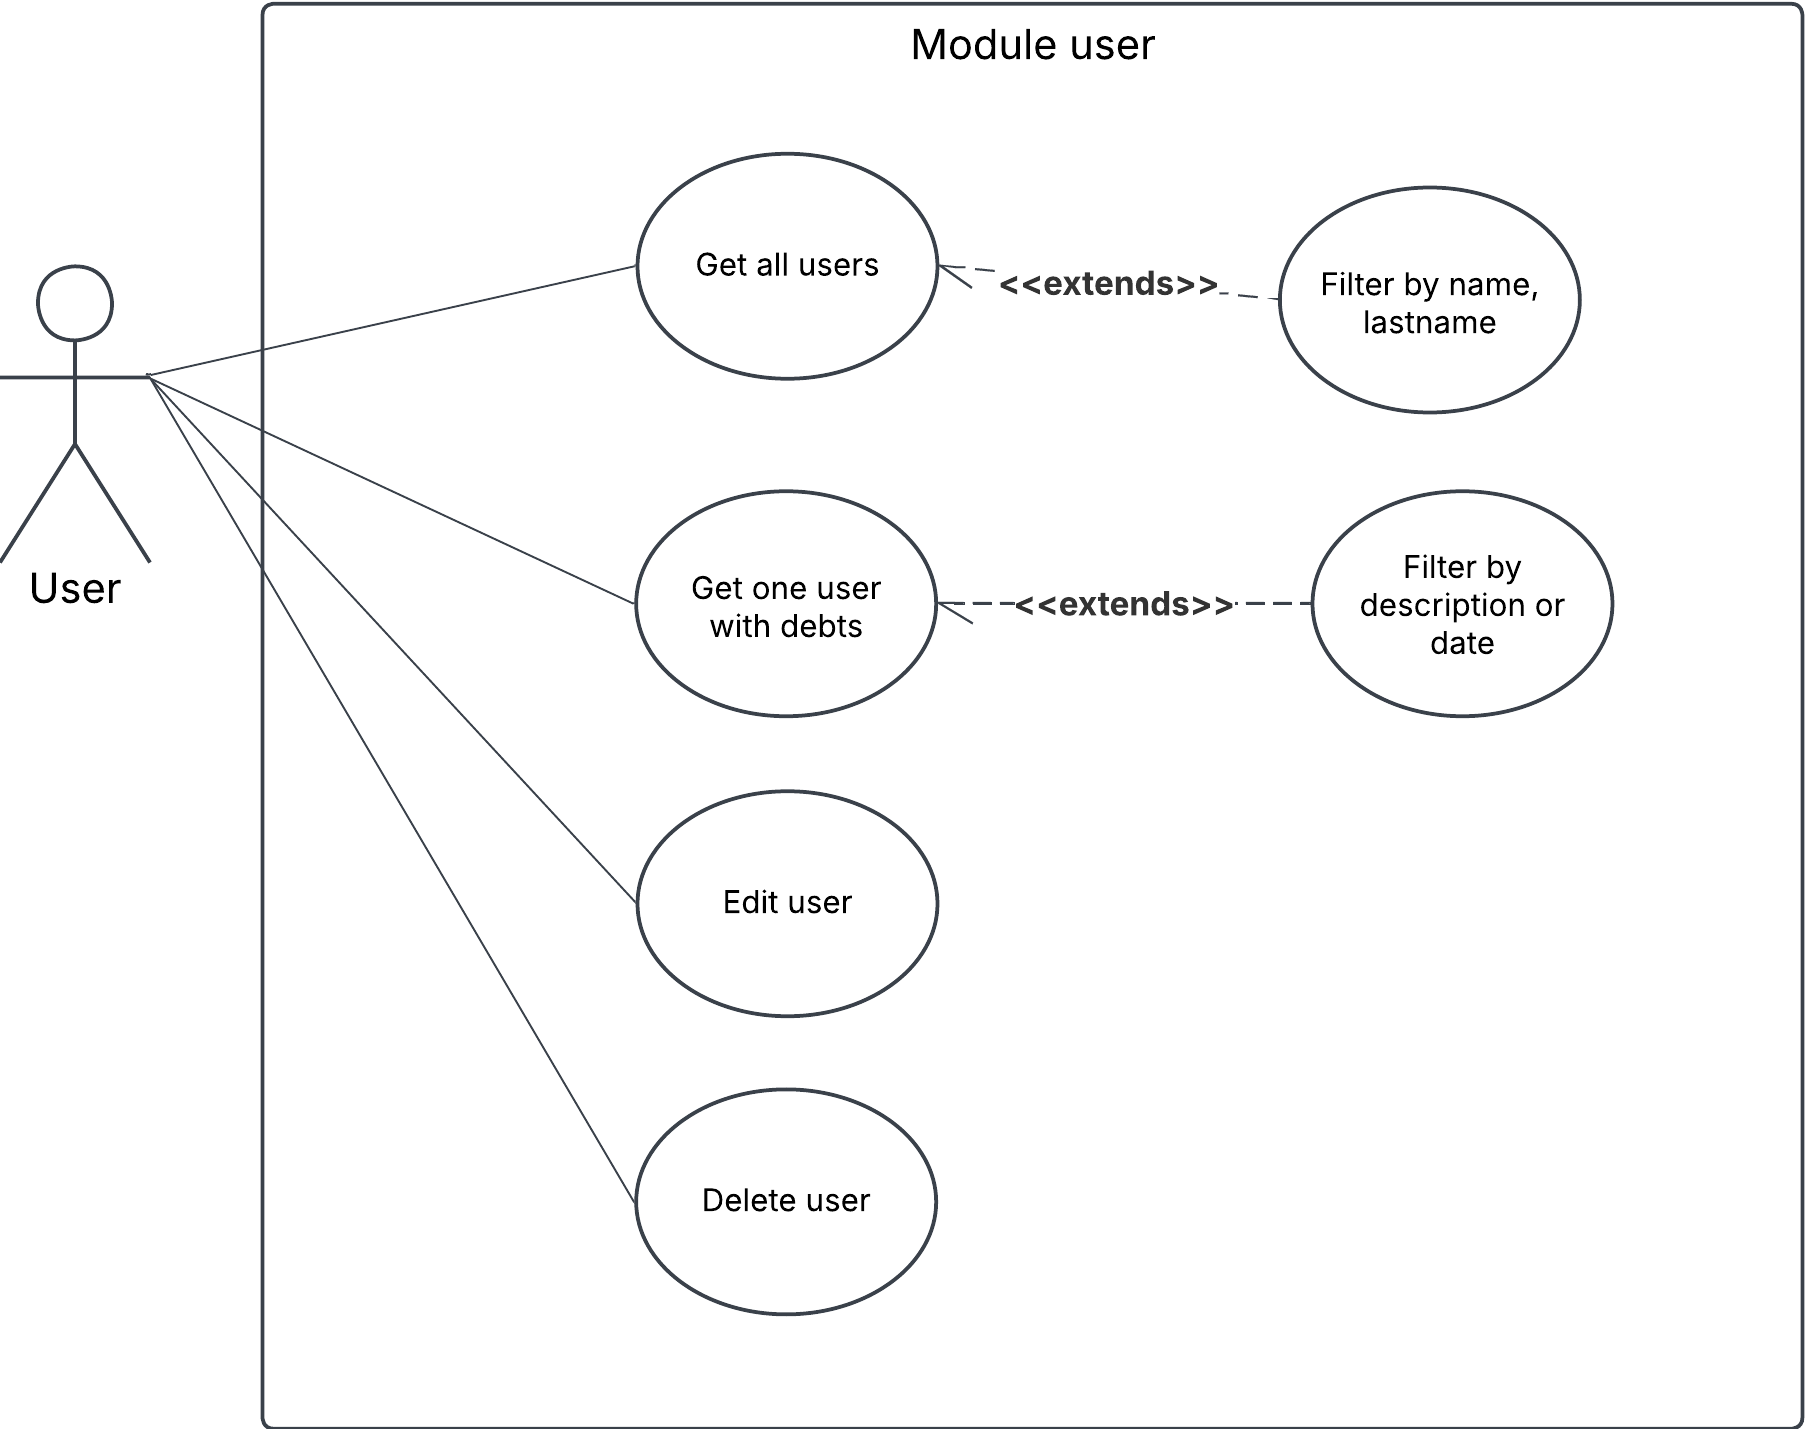
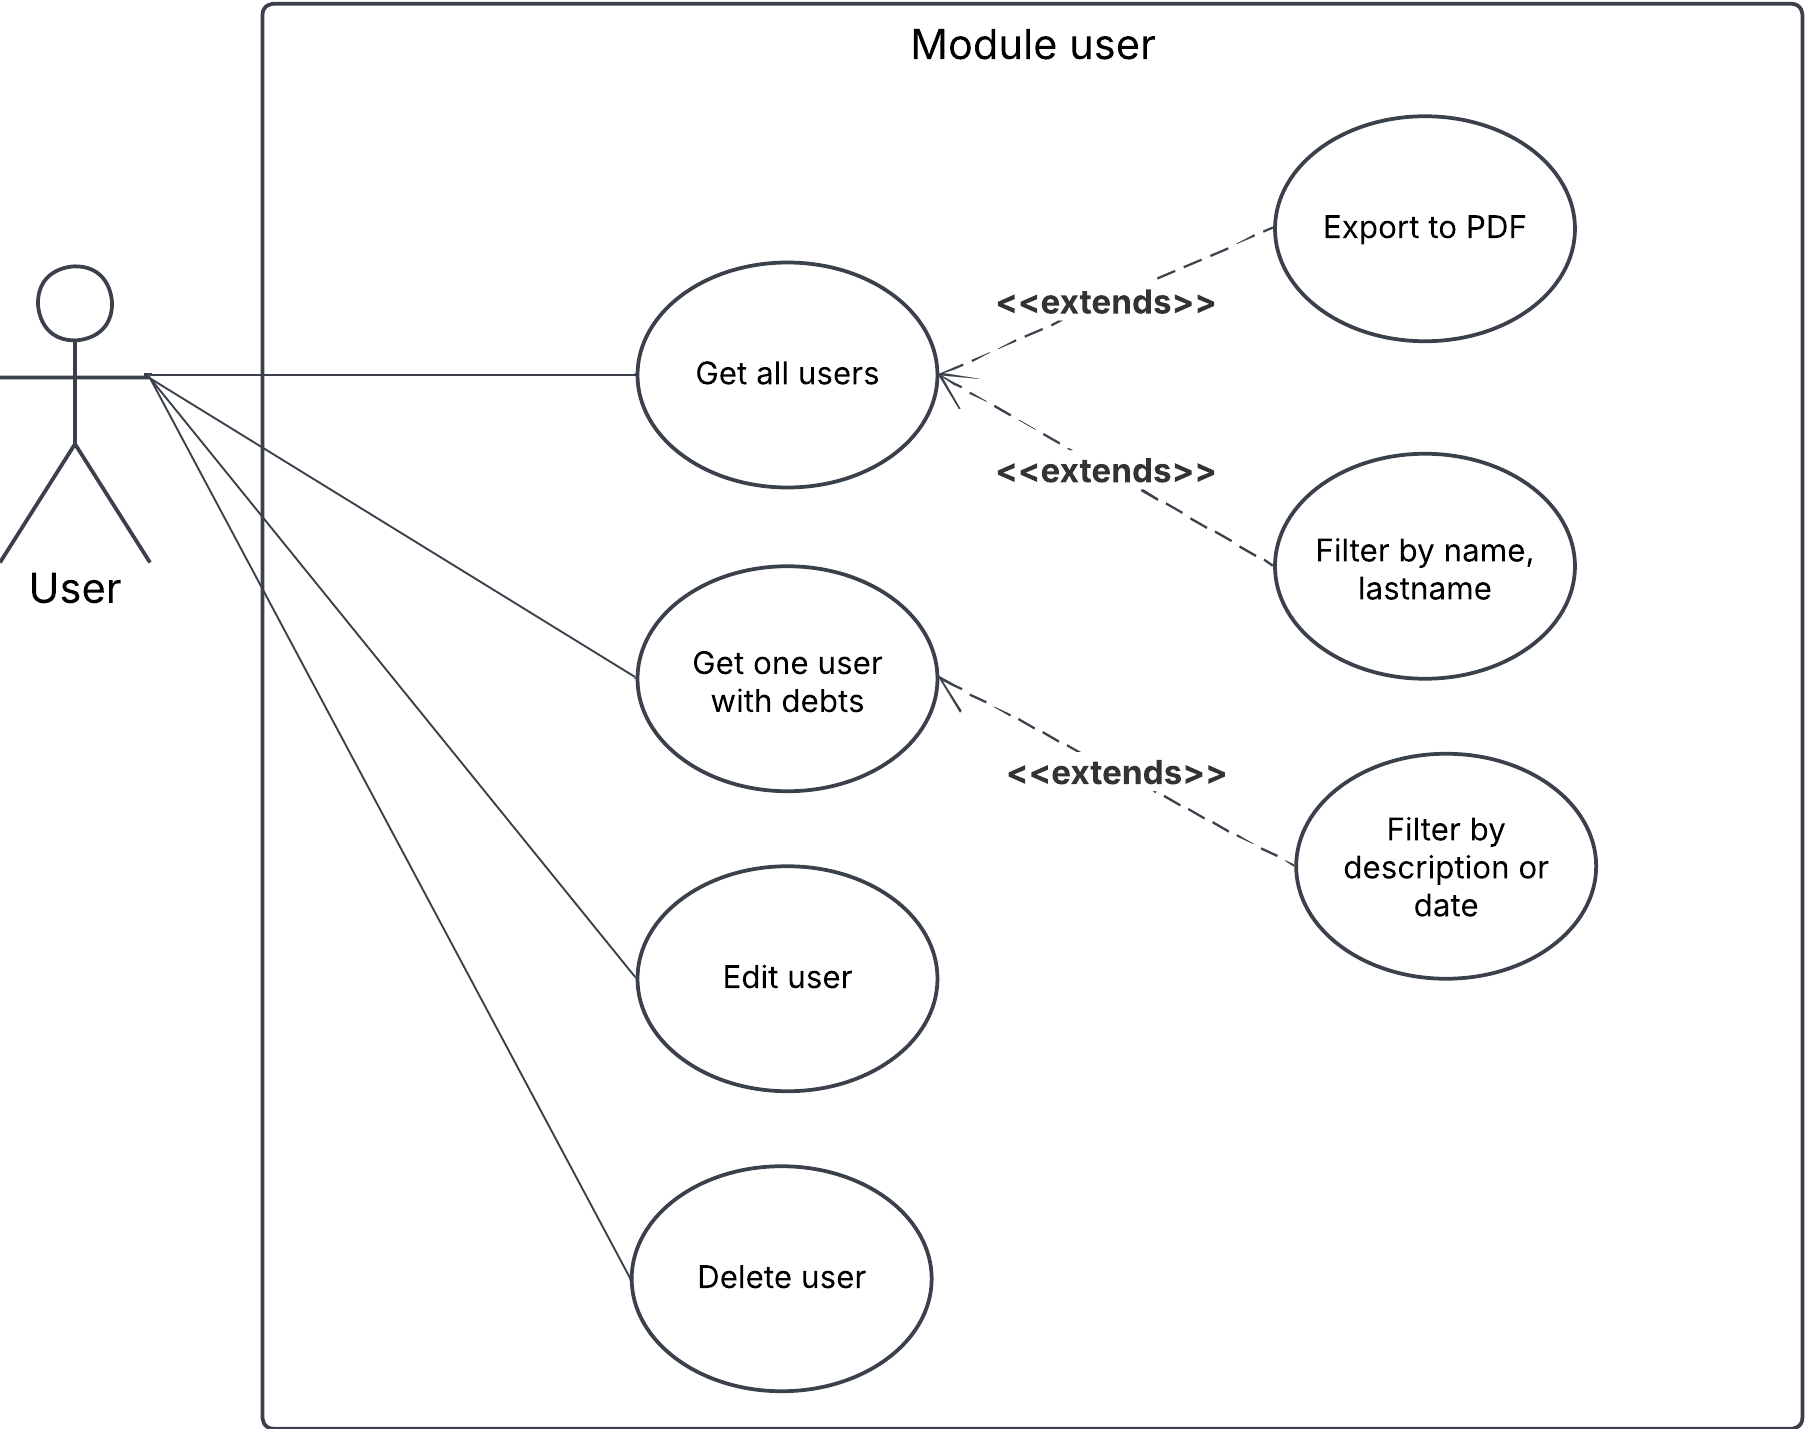
docs: :memo: uses cases and modules updated doc ready

diff --git a/README.md b/README.md
@@ -8,10 +8,12 @@ CrediControl es una aplicación web diseñada para ayudarte a llevar el control 
 
 - Registro y seguimiento de ingresos y egresos con filtros avanzados.
 - Gestión completa de deudas y deudores.
-- Gestión completa de usuarios.
+- Gestión completa de contactos.
 - Configuración de presupuestos.
 - Visualización de transacciones por nombre, tipo, fecha.
 - Seguridad y rendimiento con arquitectura moderna y escalable.
+- Generación de reportes en pdf.
+- Auditoria de cada acción realizada.
 
 ---
 
@@ -30,13 +32,13 @@ CrediControl es una aplicación web diseñada para ayudarte a llevar el control 
 - Como usuario autenticado quiero poder ver mi perfil personal para revisar mi información.
 - Como usuario autenticado quiero poder cerrar sesión de forma segura para proteger mi cuenta y evitar accesos no autorizados.
 
-### 👤 Módulo Usuario
+### 👤 Módulo Contacto
 
-- Obtener todos los usuarios registrados para gestionar el sistema.
-- Obtener un usuario específico junto con sus deudas para visualizar su estado financiero.
-- Filtrar deudas de usuarios por descripción o fecha.
-- Editar la información de un usuario existente.
-- Eliminar un usuario del sistema.
+- Obtener todos los contactos registrados para gestionar el sistema.
+- Obtener un contactos específico junto con sus deudas para visualizar su estado financiero.
+- Filtrar deudas de contactos por descripción o fecha.
+- Editar la información de un contactos existente.
+- Eliminar un contactos del sistema.
 
 ### 💸 Módulo Transacciones
 
@@ -44,8 +46,7 @@ CrediControl es una aplicación web diseñada para ayudarte a llevar el control 
 - Editar una transacción.
 - Eliminar una transacción.
 - Obtener todas mis transacciones.
-- Filtrar transacciones por descripción, tipo, fecha de inicio, fecha de fin o rango de fechas.
-- Obtener los detalles de una transacción específica.
+- Filtrar transacciones por descripción, tipo, fecha de inicio.
 - Configurar mi presupuesto inicial.
 
 ### 🧾 Módulo Deudas
@@ -67,7 +68,7 @@ CrediControl es una aplicación web diseñada para ayudarte a llevar el control 
 - Eliminar una imagen específica asociada a un pago.
 - Eliminar todas las imágenes asociadas a un pago.
 
-### 🕵♂ Módulo Auditoría *(Futuro)*
+### 🕵♂ Módulo Auditoría
 
 - Registrar y consultar acciones realizadas por los usuarios en la aplicación.
 
